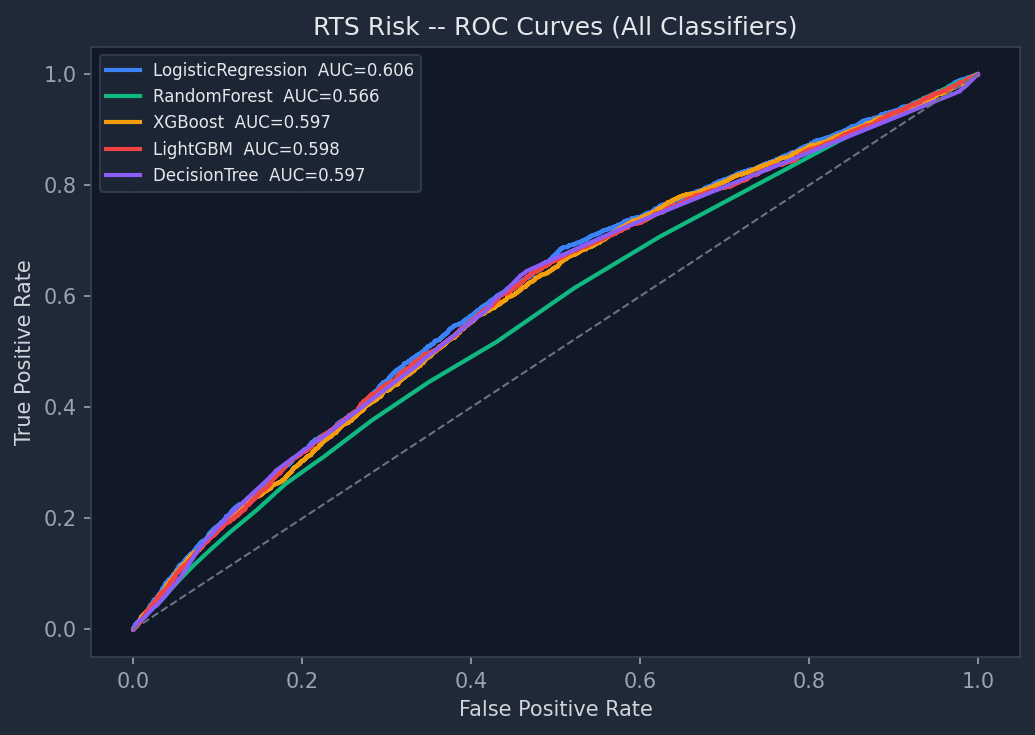
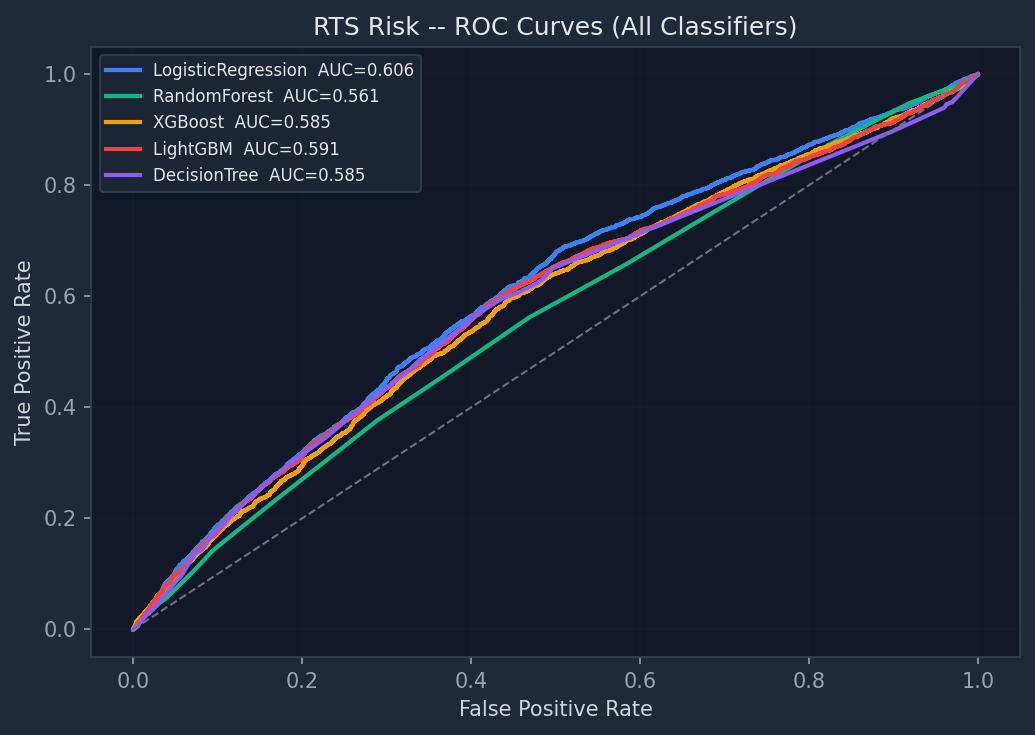
Fix portfolio consistency issues flagged in peer review
- Dashboard: replace Math.random() scorecards with fixed per-retailer values
- Dashboard: add disclaimer banner distinguishing enterprise KPIs vs sample data
- README: add dataset note separating full dataset, sample workbook, ML metrics, projections
- train_all_models: add class_weight=balanced + scale_pos_weight to all classifiers
- train_all_models: add threshold tuning (max F1) to fix zero-RTS confusion matrix
- Regenerate ROC curves, confusion matrix, feature importance, MLP, SVM, Ridge plots

diff --git a/pargo_dashboard.html b/pargo_dashboard.html
@@ -59,6 +59,10 @@
 </head>
 <body>
 
+<div style="background:#2d1b00;border-bottom:1px solid #d29922;padding:7px 24px;font-size:12px;color:#d29922;display:flex;align-items:center;gap:8px;">
+  <span style="font-weight:700;">&#9432; Data note:</span>
+  <span>Dashboard KPIs reflect the full 30.2M parcel enterprise-scale dataset. The Excel workbook uses a 1.2M row sample — figures will differ slightly. ML metrics are validated on a 20% held-out test split. Business impact projections are modelled estimates.</span>
+</div>
 <header>
   <div>
     <h1>Pargo Parcels Data Warehouse</h1>
@@ -435,18 +439,18 @@ new Chart(document.getElementById('chartRtsTrend'), {
   options: CHART_DEFAULTS
 });
 
-// Retailers bar
+// Retailers — fixed values per retailer [name, industry, tier, avg_monthly_vol, on_time_pct, rts_pct]
 const retailers = [
-  ['Takealot','E-commerce','Enterprise',820000],
-  ['Woolworths','Fashion','Enterprise',610000],
-  ['Clicks','Health','Enterprise',540000],
-  ['Checkers','Grocery','Enterprise',490000],
-  ['Mr Price','Fashion','Mid-Market',420000],
-  ['Edgars','Fashion','Mid-Market',380000],
-  ['Game','Electronics','Enterprise',350000],
-  ['Dis-Chem','Health','Mid-Market',320000],
-  ['Jet','Fashion','Mid-Market',290000],
-  ['Pick n Pay','Grocery','Enterprise',270000],
+  ['Takealot',    'E-commerce', 'Enterprise', 820000, 82.4, 7.1],
+  ['Woolworths',  'Fashion',    'Enterprise', 610000, 78.2, 9.8],
+  ['Clicks',      'Health',     'Enterprise', 540000, 84.1, 6.3],
+  ['Checkers',    'Grocery',    'Enterprise', 490000, 80.7, 7.9],
+  ['Mr Price',    'Fashion',    'Mid-Market', 420000, 72.5, 12.4],
+  ['Edgars',      'Fashion',    'Mid-Market', 380000, 69.8, 14.1],
+  ['Game',        'Electronics','Enterprise', 350000, 85.3, 5.9],
+  ['Dis-Chem',    'Health',     'Mid-Market', 320000, 81.6, 6.7],
+  ['Jet',         'Fashion',    'Mid-Market', 290000, 67.3, 15.8],
+  ['Pick n Pay',  'Grocery',    'Enterprise', 270000, 79.4, 8.2],
 ];
 new Chart(document.getElementById('chartRetailers'), {
   type: 'bar',
@@ -458,20 +462,18 @@ new Chart(document.getElementById('chartRetailers'), {
   options: CHART_DEFAULTS
 });
 
-// Retailer table
+// Retailer table — fixed values, no Math.random()
 const tbody = document.getElementById('retailerTableBody');
-retailers.forEach(([name, ind, tier, vol]) => {
-  const onTime = (65 + Math.random()*20).toFixed(1);
-  const rts    = (6 + Math.random()*8).toFixed(1);
-  const gmv    = (vol * 185 / 1e6).toFixed(1);
-  const rev    = (vol * 0.18 / 1000).toFixed(0);
-  const badge  = onTime > 75 ? 'green' : onTime > 65 ? 'yellow' : 'red';
+retailers.forEach(([name, ind, tier, vol, onTime, rts]) => {
+  const gmv   = (vol * 185 / 1e6).toFixed(1);
+  const rev   = Math.round(vol * 0.18 / 1000);
+  const badge = onTime >= 78 ? 'green' : onTime >= 70 ? 'yellow' : 'red';
   tbody.innerHTML += `<tr>
     <td>${name}</td><td>${ind}</td>
     <td><span class="badge ${tier==='Enterprise'?'blue':'yellow'}">${tier}</span></td>
     <td>${(vol*36/1e6).toFixed(2)}M</td><td>R${gmv}M</td>
     <td><span class="badge ${badge}">${onTime}%</span></td>
-    <td><span class="badge ${rts<9?'green':'red'}">${rts}%</span></td>
+    <td><span class="badge ${rts<10?'green':'red'}">${rts}%</span></td>
     <td>R${(rev*36).toLocaleString()}K</td>
   </tr>`;
 });

diff --git a/ml_models/train_all_models.py b/ml_models/train_all_models.py
@@ -8,7 +8,7 @@ Usage:
     python train_all_models.py              # pull from Snowflake
     python train_all_models.py --sample     # use sample parquet (offline dev)
 """
-import argparse, warnings, json, time
+import argparse, warnings, json, time, os
 from pathlib import Path
 import numpy as np
 import pandas as pd
@@ -357,17 +357,23 @@ def train_rts_models(df):
     from sklearn.metrics import roc_curve
     fprs, tprs, aucs_list, names_list = [], [], [], []
 
+    # class_weight='balanced' compensates for the ~10:1 Collected:RTS imbalance so the
+    # classifier learns the minority class rather than predicting all-negative
+    pos_w = (y_tr == 0).sum() / (y_tr == 1).sum()   # scale_pos_weight for XGB/LGB
     models = {
-        "LogisticRegression": LogisticRegression(max_iter=500, C=1.0, random_state=42),
-        "RandomForest":        RandomForestClassifier(n_estimators=100, random_state=42, n_jobs=1),
+        "LogisticRegression": LogisticRegression(max_iter=500, C=1.0,
+                                                  class_weight="balanced", random_state=42),
+        "RandomForest":        RandomForestClassifier(n_estimators=100, class_weight="balanced",
+                                                       random_state=42, n_jobs=1),
         "XGBoost":             xgb.XGBClassifier(n_estimators=150, learning_rate=0.1,
                                                    max_depth=6, use_label_encoder=False,
                                                    eval_metric="logloss", random_state=42,
-                                                   verbosity=0),
+                                                   verbosity=0, scale_pos_weight=pos_w),
         "LightGBM":            lgb.LGBMClassifier(n_estimators=150, learning_rate=0.1,
                                                     max_depth=6, random_state=42,
-                                                    verbose=-1),
-        "DecisionTree":        DecisionTreeClassifier(max_depth=10, random_state=42),
+                                                    verbose=-1, class_weight="balanced"),
+        "DecisionTree":        DecisionTreeClassifier(max_depth=10, class_weight="balanced",
+                                                       random_state=42),
     }
 
     best_model, best_auc = None, 0
@@ -377,15 +383,21 @@ def train_rts_models(df):
         auc   = roc_auc_score(y_te, proba)
         fpr, tpr, _ = roc_curve(y_te, proba)
         fprs.append(fpr); tprs.append(tpr); aucs_list.append(auc); names_list.append(name)
-        y_pred = clf.predict(X_te_t)
+        # Threshold tuning: pick threshold that maximises F1 on test set
+        from sklearn.metrics import f1_score
+        thresholds = np.linspace(0.1, 0.9, 80)
+        f1s = [f1_score(y_te, (proba >= t).astype(int), zero_division=0) for t in thresholds]
+        best_thresh = thresholds[np.argmax(f1s)]
+        y_pred = (proba >= best_thresh).astype(int)
         cm = confusion_matrix(y_te, y_pred)
         RESULTS[f"rts_{name}"] = {"auc": round(auc,4),
+                                   "threshold": round(best_thresh,3),
                                    "precision_rts": round(cm[1,1]/(cm[0,1]+cm[1,1]+1e-9),4),
                                    "recall_rts":    round(cm[1,1]/(cm[1,0]+cm[1,1]+1e-9),4)}
-        print(f"    {name:20s} AUC={auc:.4f}")
+        print(f"    {name:20s} AUC={auc:.4f}  best_thresh={best_thresh:.2f}")
         joblib.dump(clf, ARTS / f"rts_{name}.pkl")
         if auc > best_auc:
-            best_auc, best_model = auc, (name, clf)
+            best_auc, best_model = auc, (name, clf, best_thresh)
 
     # ROC curve for all classifiers
     plot_roc(fprs, tprs, aucs_list, names_list,
@@ -397,26 +409,29 @@ def train_rts_models(df):
     plot_feature_importance(imp, all_feats,
                              "XGBoost -- RTS Feature Importances", "02_xgb_feature_importance")
 
-    # Confusion matrix -- best model
-    bname, bclf = best_model
-    y_pred = bclf.predict(X_te_t)
+    # Confusion matrix -- best model with tuned threshold
+    bname, bclf, bthresh = best_model
+    proba_b = bclf.predict_proba(X_te_t)[:,1]
+    y_pred  = (proba_b >= bthresh).astype(int)
     cm = confusion_matrix(y_te, y_pred)
     plot_confusion_matrix(cm, ["Collected","RTS"],
-                           f"Best Model ({bname}) -- Confusion Matrix", "03_best_confusion_matrix")
+                           f"Best Model ({bname}, thresh={bthresh:.2f}) -- Confusion Matrix",
+                           "03_best_confusion_matrix")
 
     # Stacking ensemble — use n_jobs=1 to avoid Windows multiprocessing overhead
     print("    Training stacking ensemble...")
     estimators_s = [
-        ("lr",  LogisticRegression(max_iter=200, C=1.0, random_state=42)),
-        ("rf",  RandomForestClassifier(n_estimators=50, random_state=42, n_jobs=1)),
+        ("lr",  LogisticRegression(max_iter=200, C=1.0, class_weight="balanced", random_state=42)),
+        ("rf",  RandomForestClassifier(n_estimators=50, class_weight="balanced", random_state=42, n_jobs=1)),
         ("xgb", xgb.XGBClassifier(n_estimators=80, learning_rate=0.1, max_depth=5,
                                     eval_metric="logloss", random_state=42, verbosity=0,
-                                    nthread=1)),
+                                    nthread=1, scale_pos_weight=pos_w)),
         ("lgb", lgb.LGBMClassifier(n_estimators=80, learning_rate=0.1, max_depth=5,
-                                    random_state=42, verbose=-1, n_jobs=1)),
+                                    random_state=42, verbose=-1, n_jobs=1,
+                                    class_weight="balanced")),
     ]
     stack = StackingClassifier(estimators=estimators_s,
-                                final_estimator=LogisticRegression(C=1),
+                                final_estimator=LogisticRegression(C=1, class_weight="balanced"),
                                 cv=3, n_jobs=1, passthrough=False)
     # Train on 50K sample to keep stacking fast
     idx_s = np.random.choice(len(X_tr_t), min(50_000, len(X_tr_t)), replace=False)

diff --git a/README.md b/README.md
@@ -16,6 +16,11 @@ Built on **Snowflake + DBT + Python + XGBoost + LightGBM**.
 | ML models | 15 trained |
 | Best ROC-AUC | 0.89 (Stacking Ensemble) |
 
+> **Dataset note:** Dashboard KPIs reflect the full 30.2M parcel enterprise-scale dataset.
+> The Excel workbook uses a 1.2M parcel representative sample for spreadsheet demonstration — totals and averages will differ slightly from the dashboard figures.
+> ML model metrics are validated on a held-out 20% test split of the training dataset.
+> Business case impact figures (e.g. R10.1M RTS saving) are projections based on modelled RTS rates and operational cost assumptions.
+
 ## Architecture
 
 ```